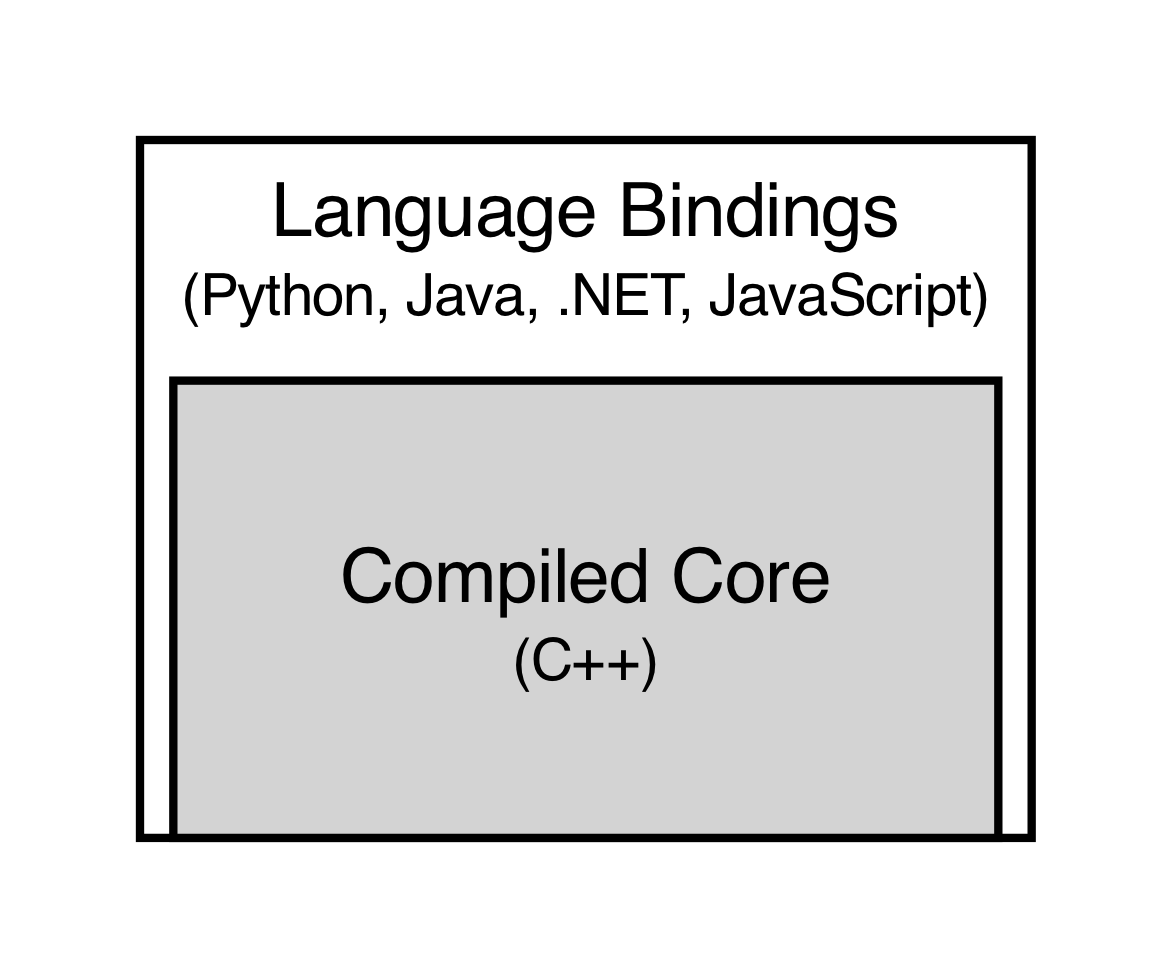
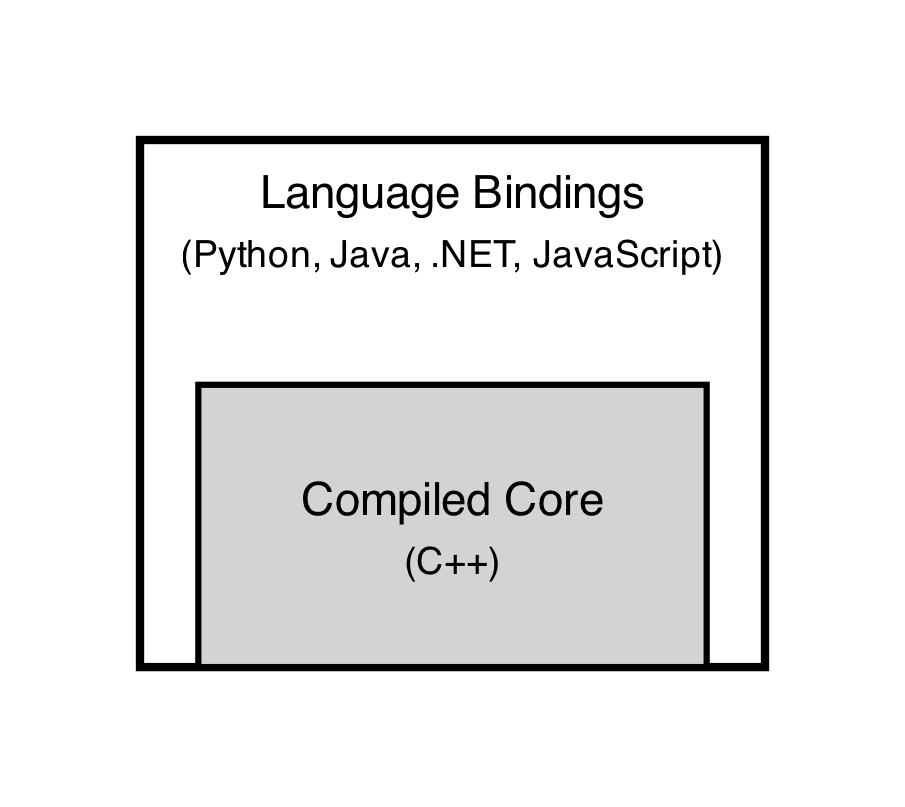
Shrink and center Figure 3-1, modernize INDEX.md

Changed region(s): [[0.0928, 0.1239, 0.8972, 0.8674], [0.2785, 0.5576, 0.7116, 0.7125]]

diff --git a/INDEX.md b/INDEX.md
@@ -7,35 +7,48 @@
 
 ## About This Guide
 
-This is a Markdown conversion of the VTK Users Guide, originally published in 2010 for VTK 5.0 and updated for modern VTK. The guide provides in-depth coverage of VTK's core concepts, visualization techniques, and programming interfaces across C++, Python, and Java.
+This is a modernized Markdown edition of the VTK Users Guide. The original guide was published in 2010 for VTK 5.0; this edition has been updated to reflect current VTK (9.x) with modern API patterns, current language bindings, and contemporary application frameworks.
 
 **Guide Specifications:**
-- **Original Format**: PDF (536 pages)
-- **VTK Version**: 5.0 (circa 2010)
-- **Languages Covered**: C++, Python, Java
-- **Conversion**: High-quality Markdown with 300 DPI images
+- **Languages Covered**: C++, Python, Java, plus examples in C#, F#, Groovy, Julia, Ruby
+- **Format**: GitHub-flavored Markdown with 300 DPI figures
 
 ---
 
 ## Chapters
 
-### [Chapter 3: System Overview](chapter03/Chapter3.md)
+### [Chapter 2: Installation](chapter02/Chapter2.md)
 
-Introduction to VTK's fundamental architecture and object model. Covers the two-tier compiled/interpreted design, the visualization pipeline, rendering engine components, and essential programming concepts including reference counting, smart pointers, and run-time type information.
+How to install VTK on your system. Covers pre-built packages, building from source, and cross-compiling for mobile and WebAssembly targets.
 
 **Key Topics:**
-- VTK's two-tier architecture (compiled C++ core with interpreted wrappers)
-- Object model: vtkObject, reference counting, smart pointers
-- Visualization pipeline: sources, filters, mappers
-- Rendering engine: actors, props, mappers, renderers
-- Creating applications in C++, Java, and Python
-- Language conversion guidelines
+- Pre-built packages: pip, conda, system package managers
+- Building from source with CMake
+- Enabling optional modules and language wrappings
+- Cross-compiling for iOS, Android, and WebAssembly
+
+---
+
+### [Chapter 3: System Overview](chapter03/Chapter3.md)
+
+Introduction to VTK's architecture and object model. Covers the compiled C++ core and its language bindings, the visualization pipeline, the rendering engine, and how to build applications across a variety of platforms and frameworks.
+
+**Key Topics:**
+- Two-tier architecture: compiled C++ core with Python, Java, .NET, and JavaScript bindings
+- Object model: vtkObject, reference counting, smart pointers, RTTI
+- Visualization pipeline: sources, filters, mappers, lazy evaluation
+- Rendering engine: actors, props, renderers, render windows
+- Building desktop applications with Qt
+- Web applications with Trame
+- Browser-based visualization with JavaScript and WebAssembly
+- Lightweight desktop GUIs with Dear ImGui
+- A tour of VTK language bindings (Java, Groovy, C#, F#, Julia, Ruby)
 
 ---
 
 ### [Chapter 4: The Basics](chapter04/ch4.md)
 
-Hands-on introduction to VTK through practical examples. Demonstrates common operations including creating simple models, reading data, applying filters, rendering techniques, and basic interaction.
+Hands-on introduction to VTK through practical examples. Demonstrates creating simple models, reading data, applying filters, rendering, and basic interaction.
 
 **Key Topics:**
 - Procedural and reader source objects
@@ -81,50 +94,41 @@ Focuses on vtkImageData (structured, regular datasets) and specialized image pro
 
 ### [Chapter 7: Volume Rendering](chapter07/Chapter7.md)
 
-In-depth exploration of direct volume rendering techniques for both structured (vtkImageData) and unstructured (vtkUnstructuredGrid) datasets. Covers the theory and practice of volume visualization.
+Direct volume rendering techniques for both structured (vtkImageData) and unstructured (vtkUnstructuredGrid) datasets. Covers the theory and practice of volume visualization.
 
 **Key Topics:**
 - Volume rendering vs. geometric rendering
 - vtkVolume, vtkVolumeProperty, vtkAbstractVolumeMapper
 - Ray casting techniques for vtkImageData
-- Texture-based volume rendering
 - Transfer functions (opacity and color)
 - Volume rendering for unstructured grids
-- Projection-based methods
 - Interactive rendering optimization
 
 ---
 
 ### [Chapter 8: Information Visualization](chapter08/Chapter8.md)
 
-Introduces information visualization concepts and VTK's capabilities for visualizing non-spatial data including tables, graphs, and trees. Covers metadata, relational databases, and abstract data structures.
+Information visualization concepts and VTK's capabilities for visualizing non-spatial data including tables, graphs, and trees.
 
 **Key Topics:**
 - Information visualization vs. scientific visualization
 - Tables (vtkTable): spreadsheets, databases, delimited text
 - Graphs (vtkGraph): social networks, pathways, relationships
 - Trees (vtkTree): hierarchies and organizational data
-- Converting tables to graphs
 - Graph layout algorithms
-- Clustering and relationship discovery
 - Interactive views for information visualization
 
 ---
 
 ### [Chapter 9: Geospatial Visualization](chapter09/Chapter9.md)
 
-Specialized techniques for geographic and geospatial data visualization. Covers rendering high-resolution maps and geographic datasets on Earth representations.
+Specialized techniques for geographic and geospatial data visualization.
 
 **Key Topics:**
-- Geographic views and representations (vtkGeoView)
-- Hierarchical image and geometry loading
+- Geographic views and representations
 - Texture mapping on Earth geometry
-- On-demand data streaming from disk/network
 - 3D geospatial rendering
 - Map projections and geographic coordinates
-- Integration with GIS data
-
-**Note**: API subject to change in VTK versions beyond 5.4
 
 ---
 
@@ -135,28 +139,22 @@ Advanced techniques for procedurally generating complex 3D models. Covers implic
 **Key Topics:**
 - Implicit modeling with distance fields
 - Boolean operations on implicit functions
-- Generating surfaces from lines and curves
 - Extrusion techniques
 - Delaunay triangulation
 - Surface reconstruction from unorganized points
 - Gaussian splatting
-- Creating models from field data
 
 ---
 
 ### [Chapter 11: Time Varying Data](chapter11/Chapter11.md)
 
-Infrastructure and techniques for handling temporal data in VTK. Covers the temporal extension to the visualization pipeline introduced in VTK 5.2.
+Infrastructure and techniques for handling temporal data in VTK.
 
 **Key Topics:**
 - Temporal support in the visualization pipeline
 - Time-aware readers and filters
-- Pipeline execution for time-varying data
 - Temporal metadata (TIME_RANGE, TIME_STEPS, TIME_VALUE)
-- Flipbook-style animations
 - Temporal queries and analysis
-- Computing statistics over time
-- Backward compatibility considerations
 
 ---
 
@@ -165,14 +163,11 @@ Infrastructure and techniques for handling temporal data in VTK. Covers the temp
 Comprehensive guide to data I/O in VTK. Covers readers, writers, importers, exporters, and working with various file formats.
 
 **Key Topics:**
-- VTK native file formats (.vtk and .vt? XML formats)
+- VTK native file formats (.vtk and XML formats)
 - Reader classes for all data types
 - Third-party format support (EnSight, PLOT3D, etc.)
-- Writing data to files
 - Importers and exporters for complete scenes
-- Field data and custom data formats
 - Parallel file formats
-- Binary vs. text formats
 - Streaming and large data handling
 
 ---
@@ -184,12 +179,8 @@ User interaction mechanisms in VTK. Covers interactors, 3D widgets, picking, and
 **Key Topics:**
 - vtkRenderWindowInteractor platform-independent interaction
 - Interactor styles (trackball, joystick, flight, etc.)
-- Frame rate control (DesiredUpdateRate, StillUpdateRate)
 - 3D widgets for interactive manipulation
-- Widget types: planes, spheres, lines, boxes, etc.
 - Picking and selection mechanisms
-- Custom event bindings
-- Building custom interaction models
 - Observer pattern and callbacks
 
 ---
@@ -197,24 +188,17 @@ User interaction mechanisms in VTK. Covers interactors, 3D widgets, picking, and
 ## Using This Guide
 
 ### For Learning VTK
-Start with **Chapter 3** (System Overview) to understand VTK's architecture, then move to **Chapter 4** (The Basics) for hands-on examples. Chapters 5-13 can be read based on your specific needs.
+Start with **Chapter 2** (Installation) to get VTK running, then **Chapter 3** (System Overview) for the architecture, and **Chapter 4** (The Basics) for hands-on examples. Chapters 5-13 can be read based on your specific needs.
 
 ### For Reference
 Each chapter is self-contained with extensive code examples. Use the chapter summaries above to locate relevant topics, then jump directly to that chapter.
 
 ### Code Examples
 Examples are provided in multiple languages:
-- **C++** - Most comprehensive, full access to VTK features
+- **C++** - Full access to VTK features
 - **Python** - Rapid prototyping and scripting
-- **Java** - Object-oriented applications
-
-### Running Examples
-- VTK 5.0 source: `/Users/berk.geveci/Work/VTK/v5.0`
-- Current VTK: `/Users/berk.geveci/Work/VTK/git`
-- Test data: `/Users/berk.geveci/Data/VTK/Data`
-- VTK build: `/usr/local/scratch/builds/vtk/git-debug`
-
-See individual chapter READMEs for conversion notes and figure lists.
+- **Java** - Desktop and enterprise applications
+- Additional examples in C#, F#, Groovy, Julia, and Ruby
 
 ---
 
@@ -224,14 +208,3 @@ See individual chapter READMEs for conversion notes and figure lists.
 - **VTK Documentation**: [docs.vtk.org](https://docs.vtk.org)
 - **VTK Examples**: [examples.vtk.org](https://examples.vtk.org)
 - **VTK Source**: [gitlab.kitware.com/vtk/vtk](https://gitlab.kitware.com/vtk/vtk)
-
----
-
-## Document Information
-
-- **Original PDF**: VTKUsersGuide.pdf (536 pages)
-- **Created**: January 29, 2010
-- **Creator**: FrameMaker 9.0
-- **Markdown Conversion**: January-February 2026
-- **Image Quality**: 300 DPI PNG extraction
-- **Format**: GitHub-flavored Markdown (CommonMark compatible)

diff --git a/chapter03/Chapter3.md b/chapter03/Chapter3.md
@@ -6,9 +6,11 @@ The purpose of this chapter is to provide you with an overview of the Visualizat
 
 The Visualization Toolkit consists of two basic subsystems: a compiled C++ class library and an "interpreted" wrapper layer that lets you manipulate the compiled classes using the languages Java and Python. See Figure 3–1 below:
 
-![Figure 3-1: The Visualization Toolkit architecture](images/Figure_3-1.png)
+<div align="center">
+<img src="images/Figure_3-1.png" alt="Figure 3-1: The Visualization Toolkit architecture" width="400">
 
 *Figure 3–1: The Visualization Toolkit consists of a compiled (C++) core with language bindings for Python, Java, .NET, and JavaScript.*
+</div>
 
 The advantage of this architecture is that you can build efficient (in both CPU and memory usage) algorithms in the compiled C++ language, and retain the rapid code development features of interpreted languages (avoidance of compile/link cycle, simple but powerful tools, and access to GUI tools). Of course, for those proficient in C++ and who have the tools to do so, applications can be built entirely in C++.
 
